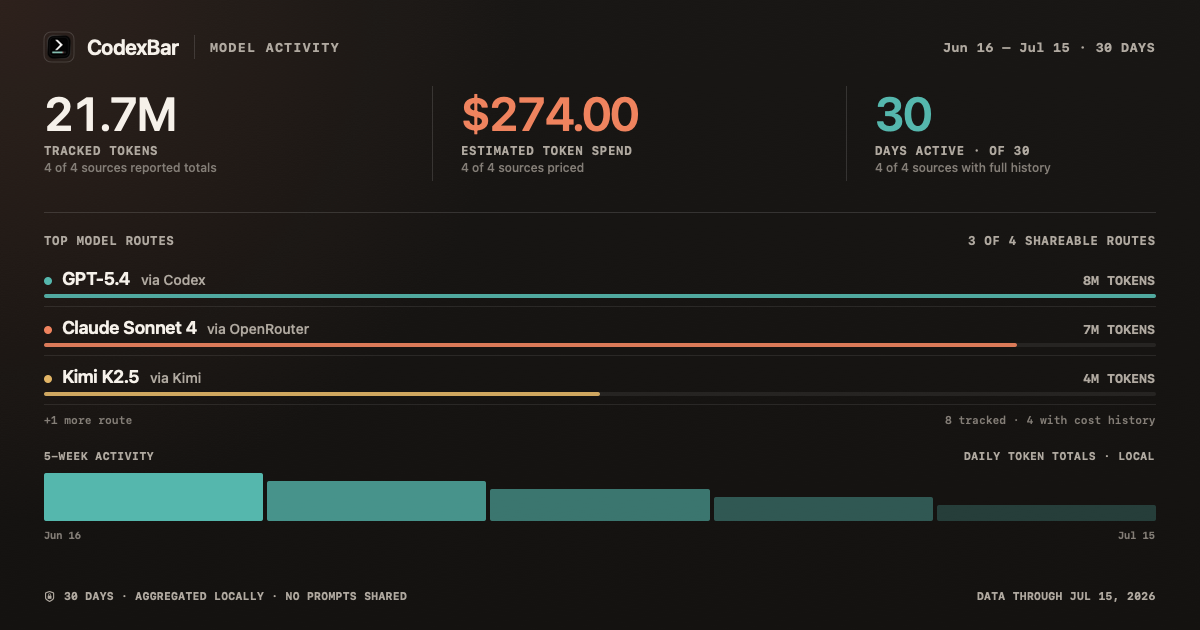
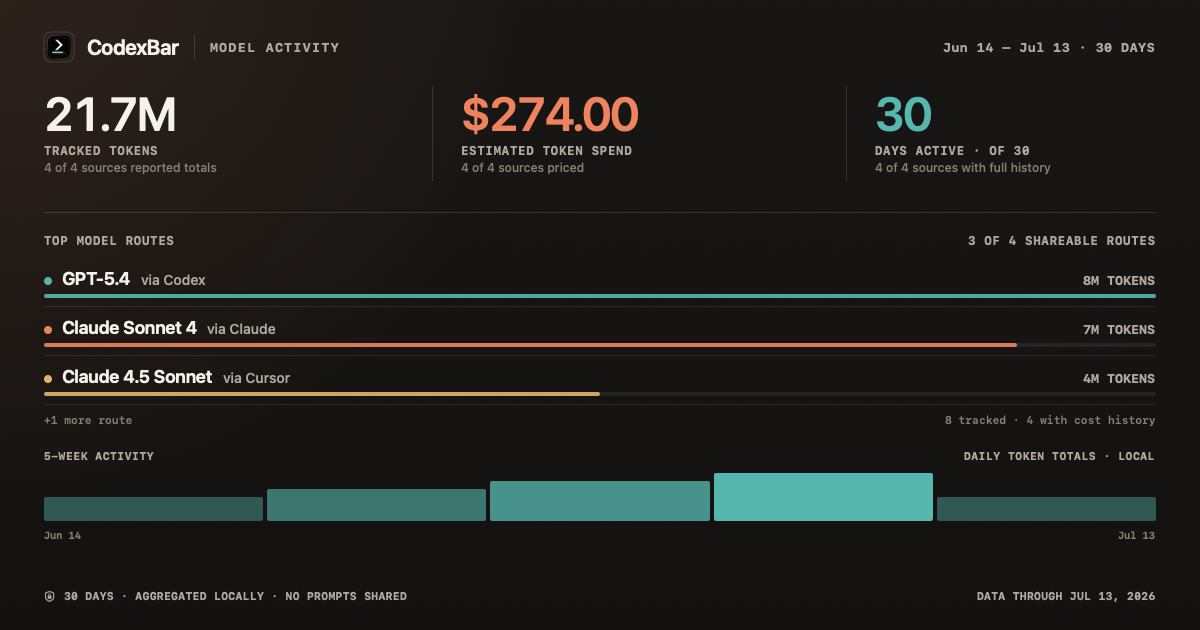
Polish share preview and proof

Changed region(s): [[0.0308, 0.7238, 0.9867, 0.8444], [0.0308, 0.573, 0.2467, 0.6333], [0.185, 0.5127, 0.2775, 0.5429]]

diff --git a/Sources/CodexBar/ShareStatsWindowController.swift b/Sources/CodexBar/ShareStatsWindowController.swift
@@ -76,17 +76,28 @@ private struct ShareStatsPreviewView: View {
 
     @State private var style: ShareStatsCardStyle = .defaultStyle
     @State private var statusMessage: String?
+    @State private var statusIsError = false
 
     var body: some View {
-        VStack(spacing: 16) {
-            if self.payload.hasModelActivityData {
-                Picker(L("Share card style"), selection: self.$style) {
-                    Text(L("Summary")).tag(ShareStatsCardStyle.summary)
-                    Text(L("Model activity")).tag(ShareStatsCardStyle.modelActivity)
+        VStack(alignment: .leading, spacing: 18) {
+            HStack(alignment: .top, spacing: 24) {
+                VStack(alignment: .leading, spacing: 4) {
+                    Text(L("Share AI Usage"))
+                        .font(.title2.weight(.semibold))
+                    Text(L("Nothing is uploaded. This image is created on your Mac."))
+                        .font(.subheadline)
+                        .foregroundStyle(.secondary)
                 }
-                .pickerStyle(.segmented)
-                .frame(width: 280)
-                .accessibilityLabel(L("Share card style"))
+                Spacer(minLength: 16)
+                if self.payload.hasModelActivityData {
+                    Picker(L("Share card style"), selection: self.$style) {
+                        Text(L("Summary")).tag(ShareStatsCardStyle.summary)
+                        Text(L("Model activity")).tag(ShareStatsCardStyle.modelActivity)
+                    }
+                    .pickerStyle(.segmented)
+                    .frame(width: 280)
+                    .accessibilityLabel(L("Share card style"))
+                }
             }
 
             ShareStatsScaledPreview(payload: self.payload, style: self.style)
@@ -99,7 +110,9 @@ private struct ShareStatsPreviewView: View {
 
             HStack(spacing: 12) {
                 Button {
-                    self.statusMessage = self.copyImage(self.style) ? L("Image copied") : L("Could not copy image")
+                    let didCopy = self.copyImage(self.style)
+                    self.statusMessage = didCopy ? L("Image copied") : L("Could not copy image")
+                    self.statusIsError = !didCopy
                 } label: {
                     Label(L("Copy Image"), systemImage: "photo.on.rectangle")
                 }
@@ -108,6 +121,7 @@ private struct ShareStatsPreviewView: View {
                 Button {
                     self.copyText(self.style)
                     self.statusMessage = L("Stats copied")
+                    self.statusIsError = false
                 } label: {
                     Label(L("Copy Stats"), systemImage: "doc.on.doc")
                 }
@@ -115,6 +129,7 @@ private struct ShareStatsPreviewView: View {
                 Button {
                     if self.saveImage(self.style) {
                         self.statusMessage = L("Image saved")
+                        self.statusIsError = false
                     }
                 } label: {
                     Label(L("Save..."), systemImage: "square.and.arrow.down")
@@ -122,15 +137,20 @@ private struct ShareStatsPreviewView: View {
 
                 Spacer()
 
-                Text(self.statusMessage ?? L("Nothing is uploaded. This image is created on your Mac."))
-                    .font(.footnote)
-                    .foregroundStyle(.secondary)
-                    .accessibilityLabel(self
-                        .statusMessage ?? L("Nothing is uploaded. This image is created on your Mac."))
+                if let statusMessage = self.statusMessage {
+                    Label(
+                        statusMessage,
+                        systemImage: self.statusIsError
+                            ? "exclamationmark.circle.fill"
+                            : "checkmark.circle.fill")
+                        .font(.footnote.weight(.medium))
+                        .foregroundStyle(self.statusIsError ? Color.red : Color.secondary)
+                }
             }
         }
         .padding(24)
         .frame(minWidth: 780, minHeight: 570)
+        .background(Color(nsColor: .windowBackgroundColor))
     }
 }
 

diff --git a/Tests/CodexBarTests/ShareStatsTests.swift b/Tests/CodexBarTests/ShareStatsTests.swift
@@ -721,7 +721,9 @@ struct ShareStatsTests {
 
     @Test @MainActor
     func `renderer creates nonblank social card PNGs at share sizes`() throws {
-        let payload = try #require(ShareStatsBuilder.make(model: Self.proofDashboard))
+        let payload = try #require(ShareStatsBuilder.make(
+            model: Self.proofDashboard,
+            trackedSources: Self.proofTrackedSources))
         #expect(ShareStatsCardView.size == CGSize(width: 1200, height: 630))
         #expect(payload.providers.count == 4)
         #expect(payload.topModels.count == 4)
@@ -766,7 +768,9 @@ struct ShareStatsTests {
 
     @Test @MainActor
     func `summary card remains the default export while model activity is opt in`() throws {
-        let payload = try #require(ShareStatsBuilder.make(model: Self.proofDashboard))
+        let payload = try #require(ShareStatsBuilder.make(
+            model: Self.proofDashboard,
+            trackedSources: Self.proofTrackedSources))
 
         #expect(ShareStatsCardStyle.defaultStyle == .summary)
         #expect(ShareStatsFormatting.text(payload).hasPrefix("My AI subscriptions"))
@@ -1010,29 +1014,29 @@ extension ShareStatsTests {
     private static var proofDashboard: SpendDashboardModel {
         var calendar = Calendar(identifier: .gregorian)
         calendar.timeZone = TimeZone(secondsFromGMT: 0) ?? .gmt
-        let start = calendar.startOfDay(for: self.date)
+        let start = calendar.startOfDay(for: Date(timeIntervalSince1970: 1_781_481_600))
         let exclusiveEnd = calendar.date(byAdding: .day, value: 30, to: start) ?? start
         let sources = [
             ProofSource(id: "codex", provider: .codex, name: "Codex", model: "gpt-5.4", tokens: 8_000_000, cost: 94),
             ProofSource(
-                id: "openrouter",
-                provider: .openrouter,
-                name: "OpenRouter",
-                model: "anthropic/claude-sonnet-4",
+                id: "claude",
+                provider: .claude,
+                name: "Claude",
+                model: "claude-sonnet-4",
                 tokens: 7_000_000,
                 cost: 140),
             ProofSource(
-                id: "kimi",
-                provider: .kimi,
-                name: "Kimi",
-                model: "moonshotai/kimi-k2.5",
+                id: "cursor",
+                provider: .cursor,
+                name: "Cursor",
+                model: "claude-4.5-sonnet",
                 tokens: 4_000_000,
                 cost: 22),
             ProofSource(
-                id: "zai",
-                provider: .zai,
-                name: "Z.ai",
-                model: "z-ai/glm-4.5",
+                id: "mistral",
+                provider: .mistral,
+                name: "Mistral",
+                model: "mistral-large-3",
                 tokens: 2_700_000,
                 cost: 18),
         ]
@@ -1081,6 +1085,17 @@ extension ShareStatsTests {
             modelHistoryCompleteness: .complete)
         return SpendDashboardModel(requestedDays: 30, groups: [group])
     }
+
+    private static let proofTrackedSources = [
+        ShareStatsTests.trackedSource(id: "codex", provider: .codex, contributes: true),
+        ShareStatsTests.trackedSource(id: "claude", provider: .claude, contributes: true),
+        ShareStatsTests.trackedSource(id: "cursor", provider: .cursor, contributes: true),
+        ShareStatsTests.trackedSource(id: "mistral", provider: .mistral, contributes: true),
+        ShareStatsTests.trackedSource(id: "openrouter", provider: .openrouter, contributes: false),
+        ShareStatsTests.trackedSource(id: "kimi", provider: .kimi, contributes: false),
+        ShareStatsTests.trackedSource(id: "gemini", provider: .gemini, contributes: false),
+        ShareStatsTests.trackedSource(id: "zai", provider: .zai, contributes: false),
+    ]
 
     private static func dashboard(models: [String]) -> SpendDashboardModel {
         SpendDashboardModel(requestedDays: 30, groups: [

diff --git a/docs/screenshots/share-stats-proof/README.md b/docs/screenshots/share-stats-proof/README.md
@@ -1,0 +1,18 @@
+# Share stats proof
+
+The PNGs in this directory are rendered by the production SwiftUI share-card
+renderer. `share-preview-window.png` captures the real preview window with the
+opt-in Model activity style selected.
+
+All values, provider names, and model routes come from a synthetic aggregate
+fixture. No account identifiers, prompts, keys, or live usage data are included.
+The four cost-history contributors use providers supported by the dashboard
+contract: Codex, Claude, Cursor, and Mistral. Four additional fixture sources are
+tracked but excluded from cost totals.
+
+With a full Xcode toolchain, regenerate the card sizes with:
+
+```sh
+CODEXBAR_SHARE_STATS_PROOF_DIR="$PWD/docs/screenshots/share-stats-proof" \
+  swift test --filter ShareStatsTests
+```
